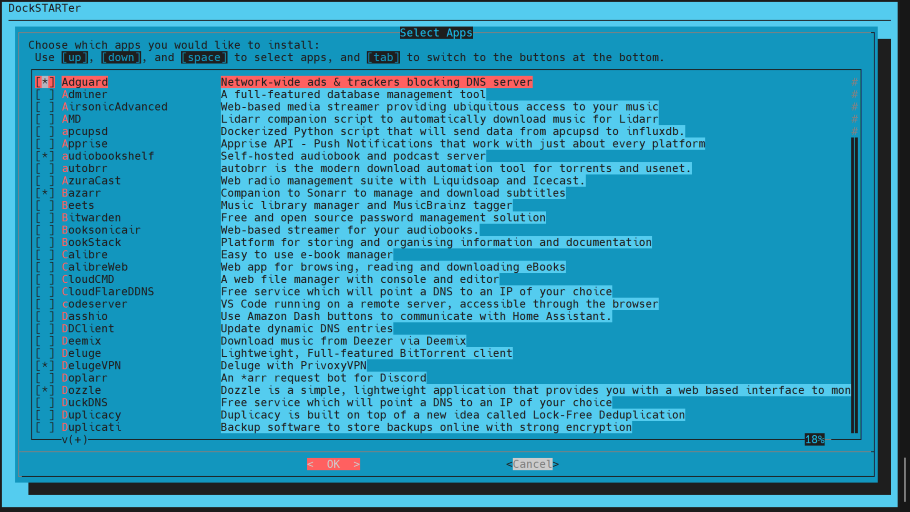
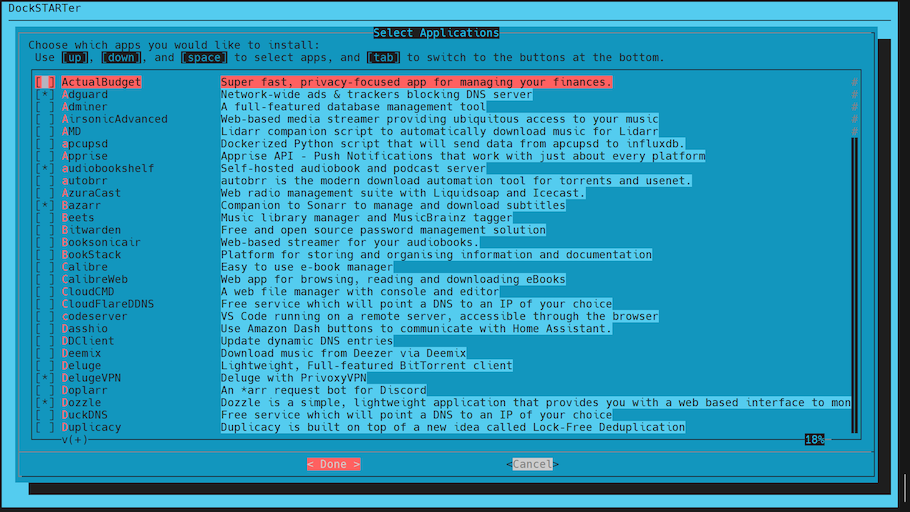
Update the screenshots

Changed region(s): [[0.0, 0.0, 1.0, 1.0], [0.0308, 0.0625, 0.1846, 0.8438], [0.8615, 0.8438, 0.9231, 0.875]]

diff --git a/README.md b/README.md
@@ -17,6 +17,8 @@ You may choose to rely on DockSTARTer for various changes to your Docker system 
 
 ![App Select](docs/assets/menu_app_select.png "App Select")
 
+![Varible Select](docs/assets/menu_app_vars.png "Varible Select")
+
 ![Value Prompt](docs/assets/menu_value_prompt.png "Value Prompt")
 
 ![Command Line Interface](docs/assets/command_help.png "Command Line Interface")

diff --git a/docs/README.md b/docs/README.md
@@ -17,6 +17,8 @@ You may choose to rely on DockSTARTer for various changes to your Docker system 
 
 ![App Select](assets/menu_app_select.png "App Select")
 
+![Varible Select](assets/menu_app_vars.png "Varible Select")
+
 ![Value Prompt](assets/menu_value_prompt.png "Value Prompt")
 
 ![Command Line Interface](assets/command_help.png "Command Line Interface")
